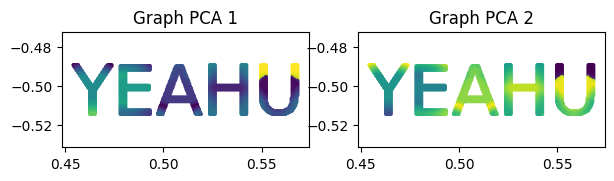
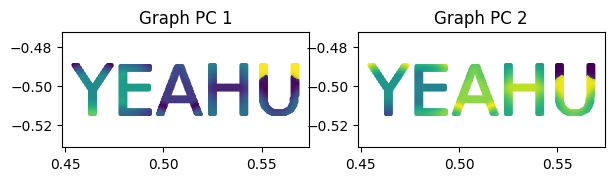
update readme files

Changed region(s): [[0.6808, 0.0552, 0.8664, 0.1657], [0.2166, 0.0552, 0.4023, 0.1381]]

diff --git a/README.md b/README.md
@@ -5,46 +5,44 @@
 <img src="https://colab.research.google.com/assets/colab-badge.svg" alt="Open In Colab"/>
 </a>
 
-Performs PCA with optional graph distance for neighborhood composition.
+Performs Principal Component Analysis (PCA) with optional graph distance for neighborhood composition.
 
-(Still under heavy development.)
-
-<!-- START doctoc generated TOC please keep comment here to allow auto update -->
-<!-- DON'T EDIT THIS SECTION, INSTEAD RE-RUN doctoc TO UPDATE -->
-**Table of Contents**
-
-- [Installation](#installation)
-- [Example](#example)
-  - [Classic PCA](#classic-pca)
-  - [Graph PCA](#graph-pca)
-
-<!-- END doctoc generated TOC please keep comment here to allow auto update -->
+<!-- START doctoc -->
+<!-- END doctoc -->
 
 
 # Installation
+
 
 
 ```python
 BUILD_BY_YOURSELF = False
 
 if BUILD_BY_YOURSELF:
-    !pip install maturin
+    %pip install maturin
     !maturin develop
 else:
     !apt-get -qq install cargo
-    !pip install -q git+https://github.com/YertleTurtleGit/graph-pca
+    %pip install -q git+https://github.com/YertleTurtleGit/graph-pca
 ```
 
     E: Could not open lock file /var/lib/dpkg/lock-frontend - open (13: Permission denied)
     E: Unable to acquire the dpkg frontend lock (/var/lib/dpkg/lock-frontend), are you root?
 
 
+    Note: you may need to restart the kernel to use updated packages.
+
+
 # Example
 
 
+
 ```python
-!pip install -q numpy opencv-python matplotlib requests
+%pip install -q numpy opencv-python matplotlib requests
 ```
+
+    Note: you may need to restart the kernel to use updated packages.
+
 
 
 ```python
@@ -100,10 +98,11 @@ _ = plt.scatter(points[:, 0], points[:, 1], s=3)
 ```python
 radius = 0.02
 features = [Feature.Eigenvalues, Feature.PrincipalComponentValues]
-pca_count = points.shape[1]
+pc_count = points.shape[1]
 ```
 
 ## Classic PCA
+
 
 
 ```python
@@ -114,11 +113,11 @@ eigenvalues_xy_graph, pca_xy_graph = np.array(
 
 
 ```python
-figure, axes = plt.subplots(1, pca_count, figsize=(3.5 * pca_count, 1.5))
-for n in range(pca_count):
+figure, axes = plt.subplots(1, pc_count, figsize=(3.5 * pc_count, 1.5))
+for n in range(pc_count):
     _ = axes[n].scatter(points[:, 0], points[:, 1], c=pca_xy_graph[:, n], s=3)
     axes[n].axis("equal")
-    axes[n].set_title(f"PCA {n+1}")
+    axes[n].set_title(f"PC {n+1}")
 ```
 
 
@@ -130,6 +129,7 @@ for n in range(pca_count):
 ## Graph PCA
 
 
+
 ```python
 max_edge_length = 0.001
 eigenvalues_xy_graph, pca_xy_graph = np.array(
@@ -139,11 +139,11 @@ eigenvalues_xy_graph, pca_xy_graph = np.array(
 
 
 ```python
-figure, axes = plt.subplots(1, pca_count, figsize=(3.5 * pca_count, 1.5))
-for n in range(pca_count):
+figure, axes = plt.subplots(1, pc_count, figsize=(3.5 * pc_count, 1.5))
+for n in range(pc_count):
     _ = axes[n].scatter(points[:, 0], points[:, 1], c=pca_xy_graph[:, n], s=3)
     axes[n].axis("equal")
-    axes[n].set_title(f"Graph PCA {n+1}")
+    axes[n].set_title(f"Graph PC {n+1}")
 ```
 
 
